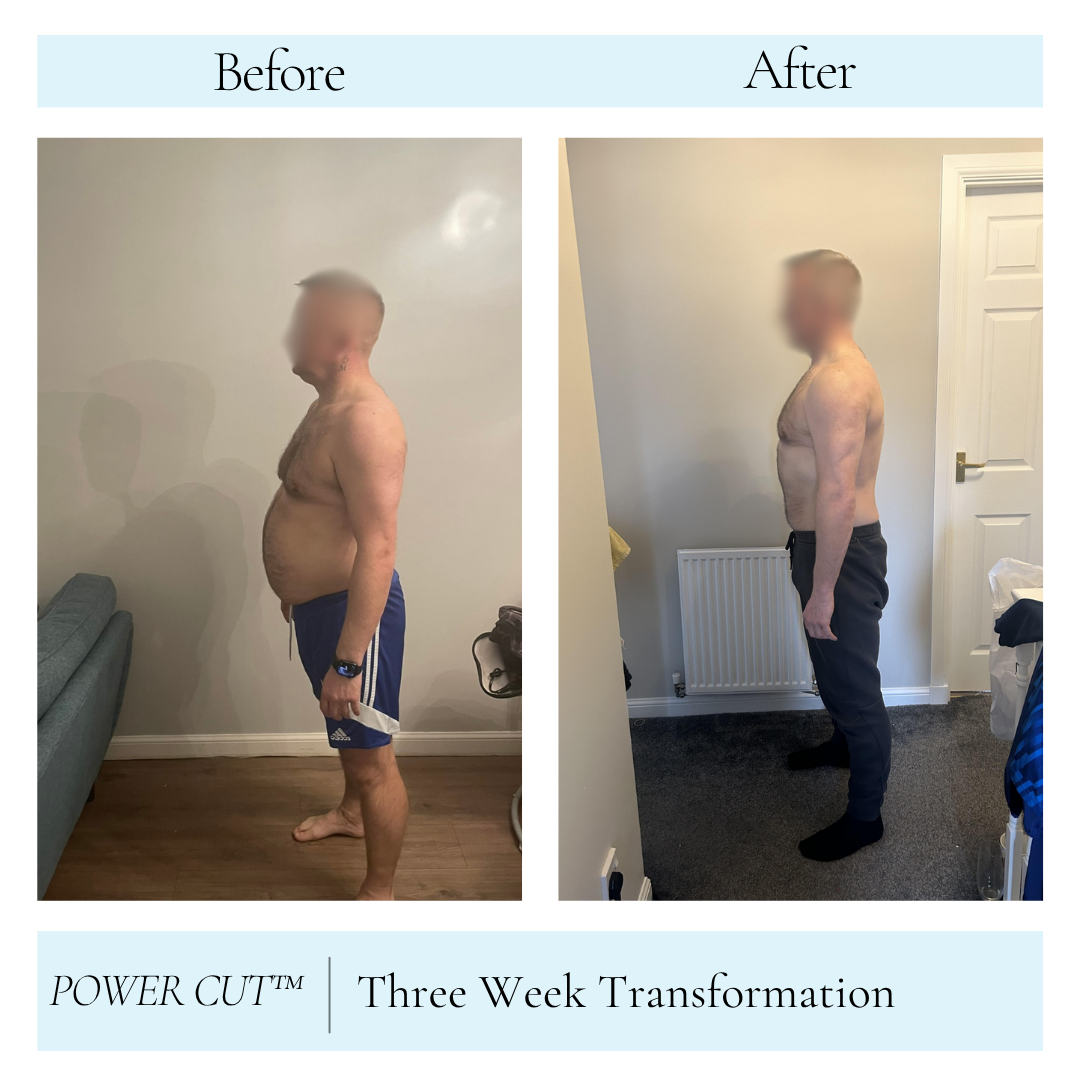
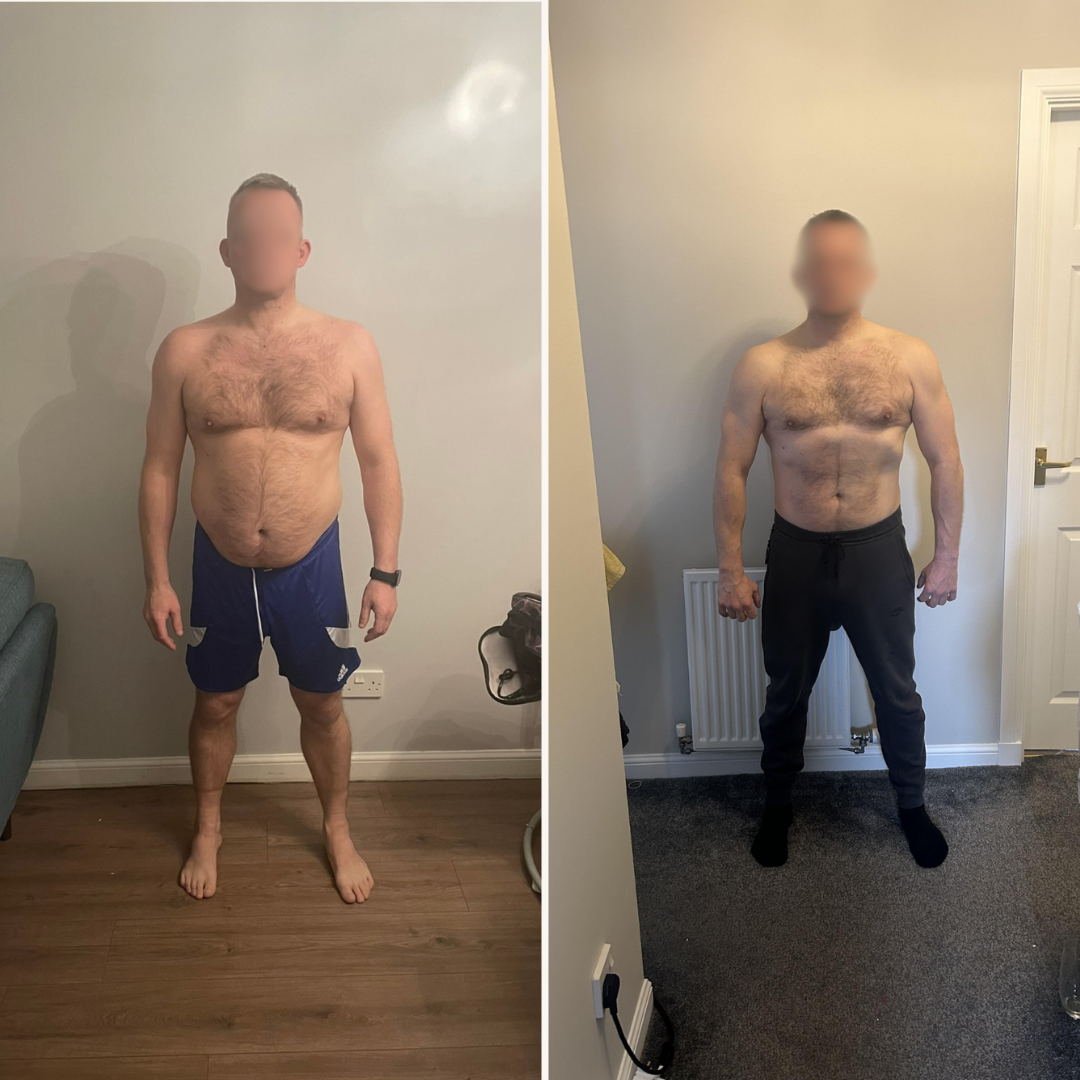
Rebuild testimonial transformation cards with site typography
Swap in the clean transformation photos (no baked-in text) and add
Before/After split headers plus a "POWER CUT | Three Week
Transformation" caption bar beneath each image. Cards now use a white
background with soft accent-tinted banner bars so the typography
matches the rest of the page while still popping against the dark
primary section backdrop.

diff --git a/app/powercut/page.tsx b/app/powercut/page.tsx
@@ -371,19 +371,41 @@ export default function PowerCutProtocol() {
               </div>
 
               <div className="grid md:grid-cols-2 gap-6 mb-14">
-                <div className="rounded-3xl overflow-hidden shadow-2xl ring-1 ring-white/10">
+                <div className="rounded-3xl overflow-hidden shadow-2xl ring-1 ring-white/10 bg-white">
+                  <div className="grid grid-cols-2 bg-[var(--accent)]/30 text-[var(--primary)]">
+                    <div className="py-3 text-center text-lg font-semibold tracking-wide">
+                      Before
+                    </div>
+                    <div className="py-3 text-center text-lg font-semibold tracking-wide">
+                      After
+                    </div>
+                  </div>
                   <img
                     src="/transformation-front.png"
                     alt="POWER CUT Three Week Transformation - Front View"
                     className="w-full h-auto block"
                   />
+                  <div className="py-3 px-4 bg-[var(--accent)]/30 text-[var(--primary)] text-center text-sm sm:text-base font-semibold tracking-wide">
+                    POWER CUT&trade; &nbsp;|&nbsp; Three Week Transformation
+                  </div>
                 </div>
-                <div className="rounded-3xl overflow-hidden shadow-2xl ring-1 ring-white/10">
+                <div className="rounded-3xl overflow-hidden shadow-2xl ring-1 ring-white/10 bg-white">
+                  <div className="grid grid-cols-2 bg-[var(--accent)]/30 text-[var(--primary)]">
+                    <div className="py-3 text-center text-lg font-semibold tracking-wide">
+                      Before
+                    </div>
+                    <div className="py-3 text-center text-lg font-semibold tracking-wide">
+                      After
+                    </div>
+                  </div>
                   <img
                     src="/transformation-side.png"
                     alt="POWER CUT Three Week Transformation - Side View"
                     className="w-full h-auto block"
                   />
+                  <div className="py-3 px-4 bg-[var(--accent)]/30 text-[var(--primary)] text-center text-sm sm:text-base font-semibold tracking-wide">
+                    POWER CUT&trade; &nbsp;|&nbsp; Three Week Transformation
+                  </div>
                 </div>
               </div>
 
